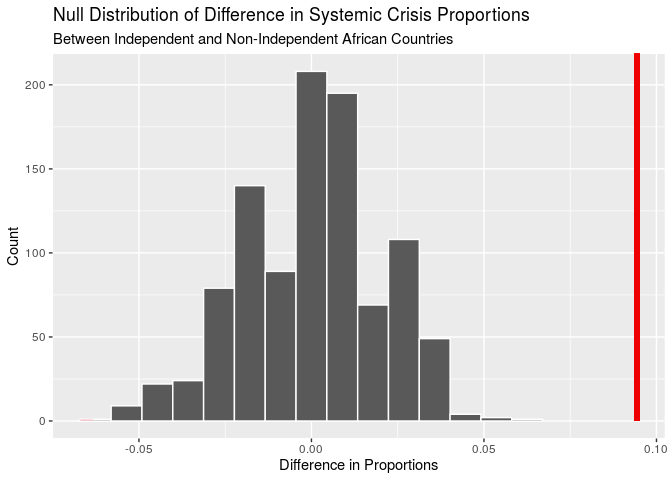
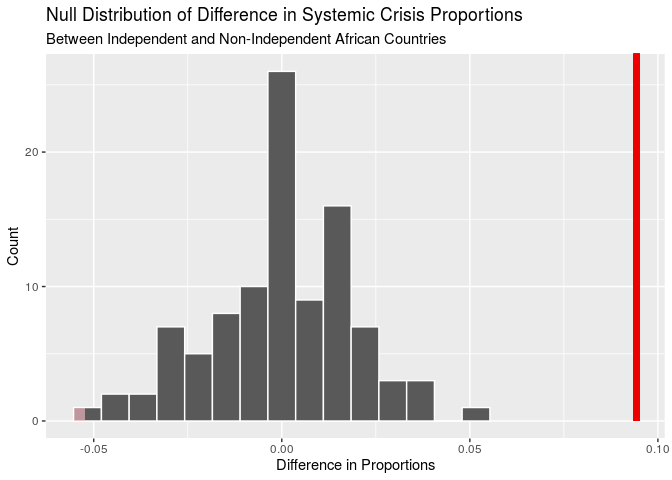
Added some exploratory stuff, ready for the merge conflict (:

diff --git a/data-analysis/data-analysis.md b/data-analysis/data-analysis.md
@@ -19,7 +19,7 @@ africa <- read_csv("../data/african_crises.csv")
 global <- read_csv("../data/global_crisis_data.csv")
 gdps <- read_csv("../data/world_gdp_data.csv")
 
-tests <- 1000
+tests <- 100
 
 options(scipen = 999)
 ```
@@ -434,7 +434,7 @@ get_p_value(null_dist2, obs_stat = rmg[1] - rmg[2], direction = "two_sided")
     ## # A tibble: 1 x 1
     ##   p_value
     ##     <dbl>
-    ## 1   0.678
+    ## 1     0.8
 
 ``` r
 visualize(null_dist2) +
@@ -448,7 +448,7 @@ visualize(null_dist2) +
 Since our p-value of 0.678 is greater than our significance level of
 0.05, we fail to reject the null hypothesis. The data does not provide
 convincing evidence that there is a significant difference between the
-median 2013 GDP of North African countries comapred to sub-Saharan
+median 2013 GDP of North African countries compared to sub-Saharan
 countries.
 
 Next, let’s calculate the proportion of years with systemic crises for
@@ -535,6 +535,8 @@ that negative GDP growth is indicative of a crisis, as the 2008
 recession saw widespread GDP stagnation or decline. Therefore, we will
 optimize our model to increase “negative GDP growth”.
 
+#### Modifying the dataset and exploratory data analysis
+
 First and foremost, we must find the difference in GDP growth between
 every year in the dataset, for each country.
 
@@ -553,6 +555,36 @@ african_gdps <- african_gdps %>%
 Notice that the gdpdelta has been negated - for our model, we want to
 optimize for an increasingly negative delta GDP, which indicates
 decline.
+
+Now, while we can’t show with our current stats knowledge whether the
+occurrence of a systemic crisis and negative GDP growth are related, we
+can at least show anecdotally that median negative GDP growth in and out
+of economic crisis. We use median to examine the center of GDP growth as
+the distribution of GDP growth is skewed left.
+
+``` r
+african_gdps %>%
+  filter(!is.na(neg_deltagdp)) %>%
+  group_by(systemic_crisis) %>%
+  summarise(
+    median_negdeltaGDP = median(neg_deltagdp),
+    iqr_negdeltaGDP = IQR(neg_deltagdp),
+  )
+```
+
+    ## # A tibble: 2 x 3
+    ##   systemic_crisis median_negdeltaGDP iqr_negdeltaGDP
+    ##   <fct>                        <dbl>           <dbl>
+    ## 1 0                       -400305237     2580219032.
+    ## 2 1                        -63907542     1206716865
+
+While there is still evidence of positive growth, it is clear that, at
+least within our sample, the median negative GDP growth is greater
+during crisis than out of crisis, and within our sample the
+interquartile range for crisis negative GDP growth is much less,
+indicating less variability than no crisis GDP growth.
+
+#### Creation, refinement, and analysis of a regression model
 
 Before we perform a backwards step to see which factors are most
 influential in an increasingly negative delta GDP, we have our “full”
@@ -705,3 +737,7 @@ ggplot(data = best_aic_aug, aes(x = .resid)) +
 
 As we can see, the residuals are in fact distributed around 0 with a
 distribution that can be described as being approximately normal.
+
+Taking all of this into account, we can reasonably use this model to
+infer a negative change in GDP for an African country, given that
+variables needed by our model are present.
